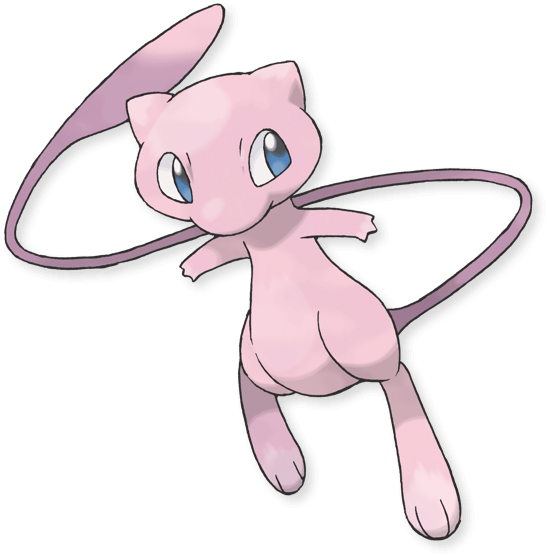
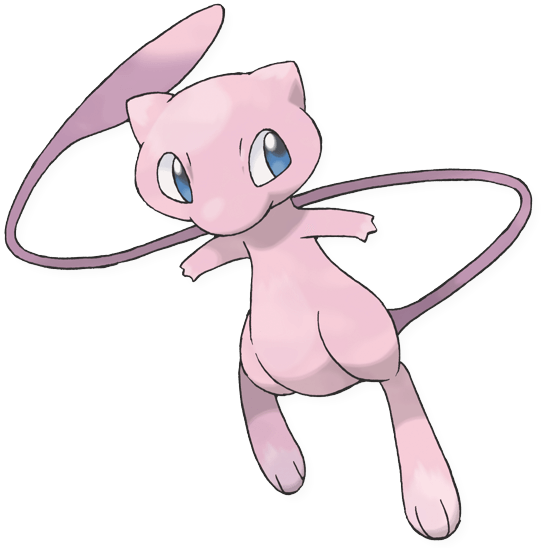
Upload optimized images

diff --git a/scripts.js b/scripts.js
@@ -1,3 +1,4 @@
+//zodiac calendar function 
 if ((month === 12 && day >= 22) || (month === 1 && day <= 19)) {
   astrological_sign = 'Capricorn'
 } else if ((month === 11 && day >= 22) || (month === 12 && day <= 21)) {
@@ -23,3 +24,12 @@ if ((month === 12 && day >= 22) || (month === 1 && day <= 19)) {
 } else if ((month === 1 && day >= 20) || (month === 2 && day <= 18)) {
   astrological_sign = 'Aquarius'
 }
+
+//zodiac buttons 
+const charizard = document.getElementById('charizard')
+
+charizard.addEventListener('click', function () {
+  popup.style.visibility = 'visible';
+  title.innerHTML='charizard';
+  img.src=''
+});
